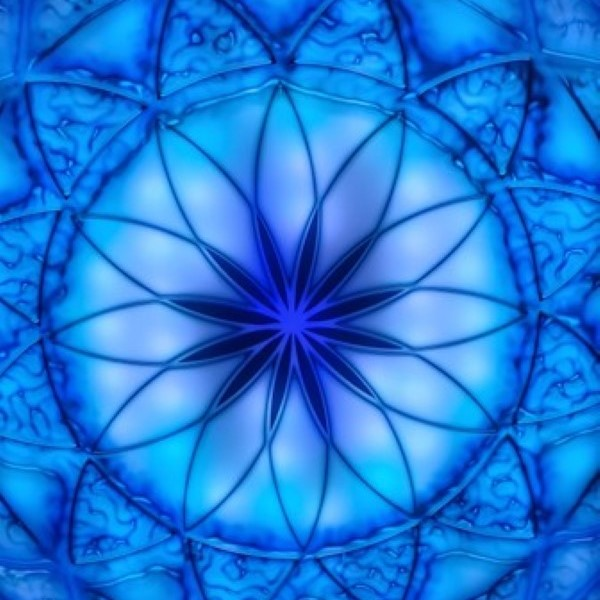
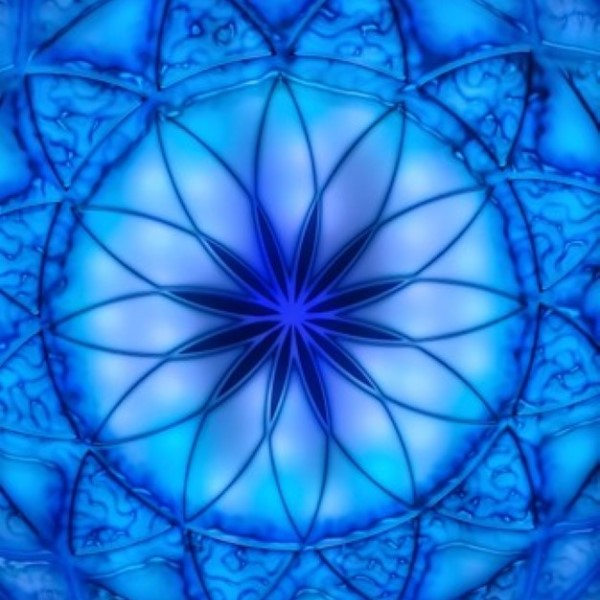
version.2

diff --git a/src/main/resources/templates/ai_art_tech-digitalBlueAndWhitePorcelain.html b/src/main/resources/templates/ai_art_tech-digitalBlueAndWhitePorcelain.html
@@ -18,7 +18,7 @@
 
     <title>AI ArtTech Lab Official website</title>
 
-    <link href="./css/main.82cfd66e.css" rel="stylesheet">
+    <link href="./css/main.82cfd66e.css?=1" rel="stylesheet">
 </head>
 
 <body>
@@ -119,8 +119,8 @@
             <button id='prev'>&nbsp&nbsp<i class="fa fa-chevron-left" aria-hidden="true">&nbsp&nbsp</i></button>
             <button id='next'>&nbsp&nbsp<i class="fa fa-chevron-right" aria-hidden="true">&nbsp&nbsp</i></button>
         </font>
-        <img class="img-responsive" style="margin:auto;" alt="作品畫師"
-             src="./assets/images/作品/數字青花_digitalBlueAndWhitePorcelain/作品數字青花1.jpg">
+        <img class="img-responsive" style="margin:auto;" alt="作品"
+             src="./assets/images/作品/數字青花_digitalBlueAndWhitePorcelain/作品數字青花2.jpg">
     </div>
 
 </main>
@@ -166,6 +166,9 @@
         //info.innerHTML = "一共" + imgArr.length + "張," + "當前為第" + (index + 1) + "張";
       }
     };
+
+
+
 
 
 </script>
